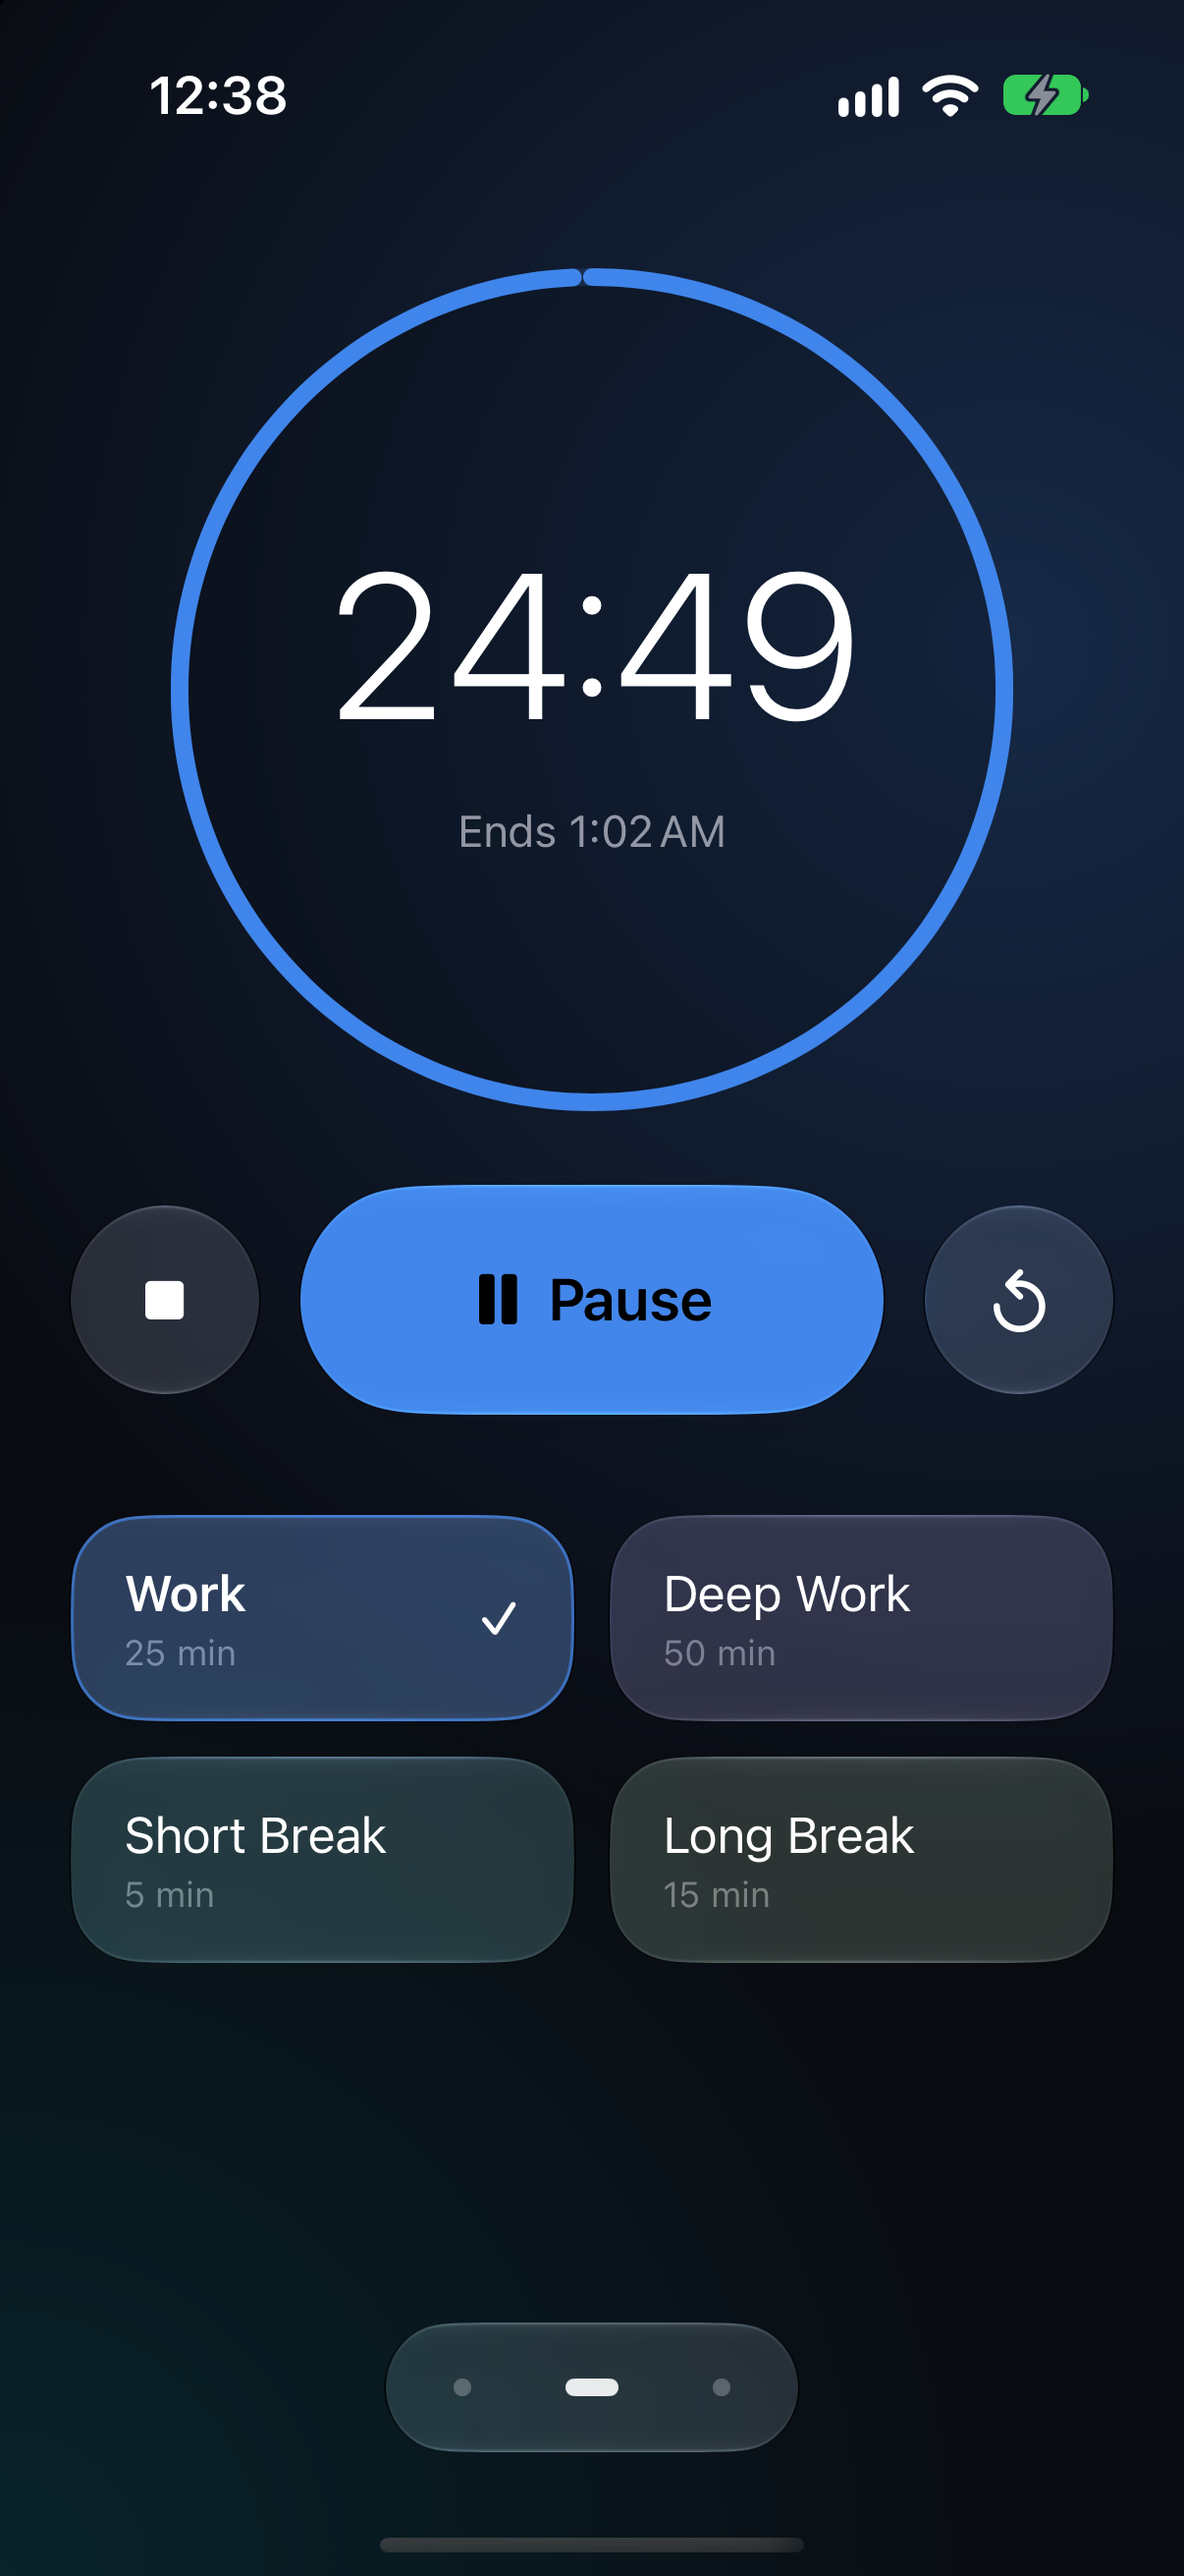
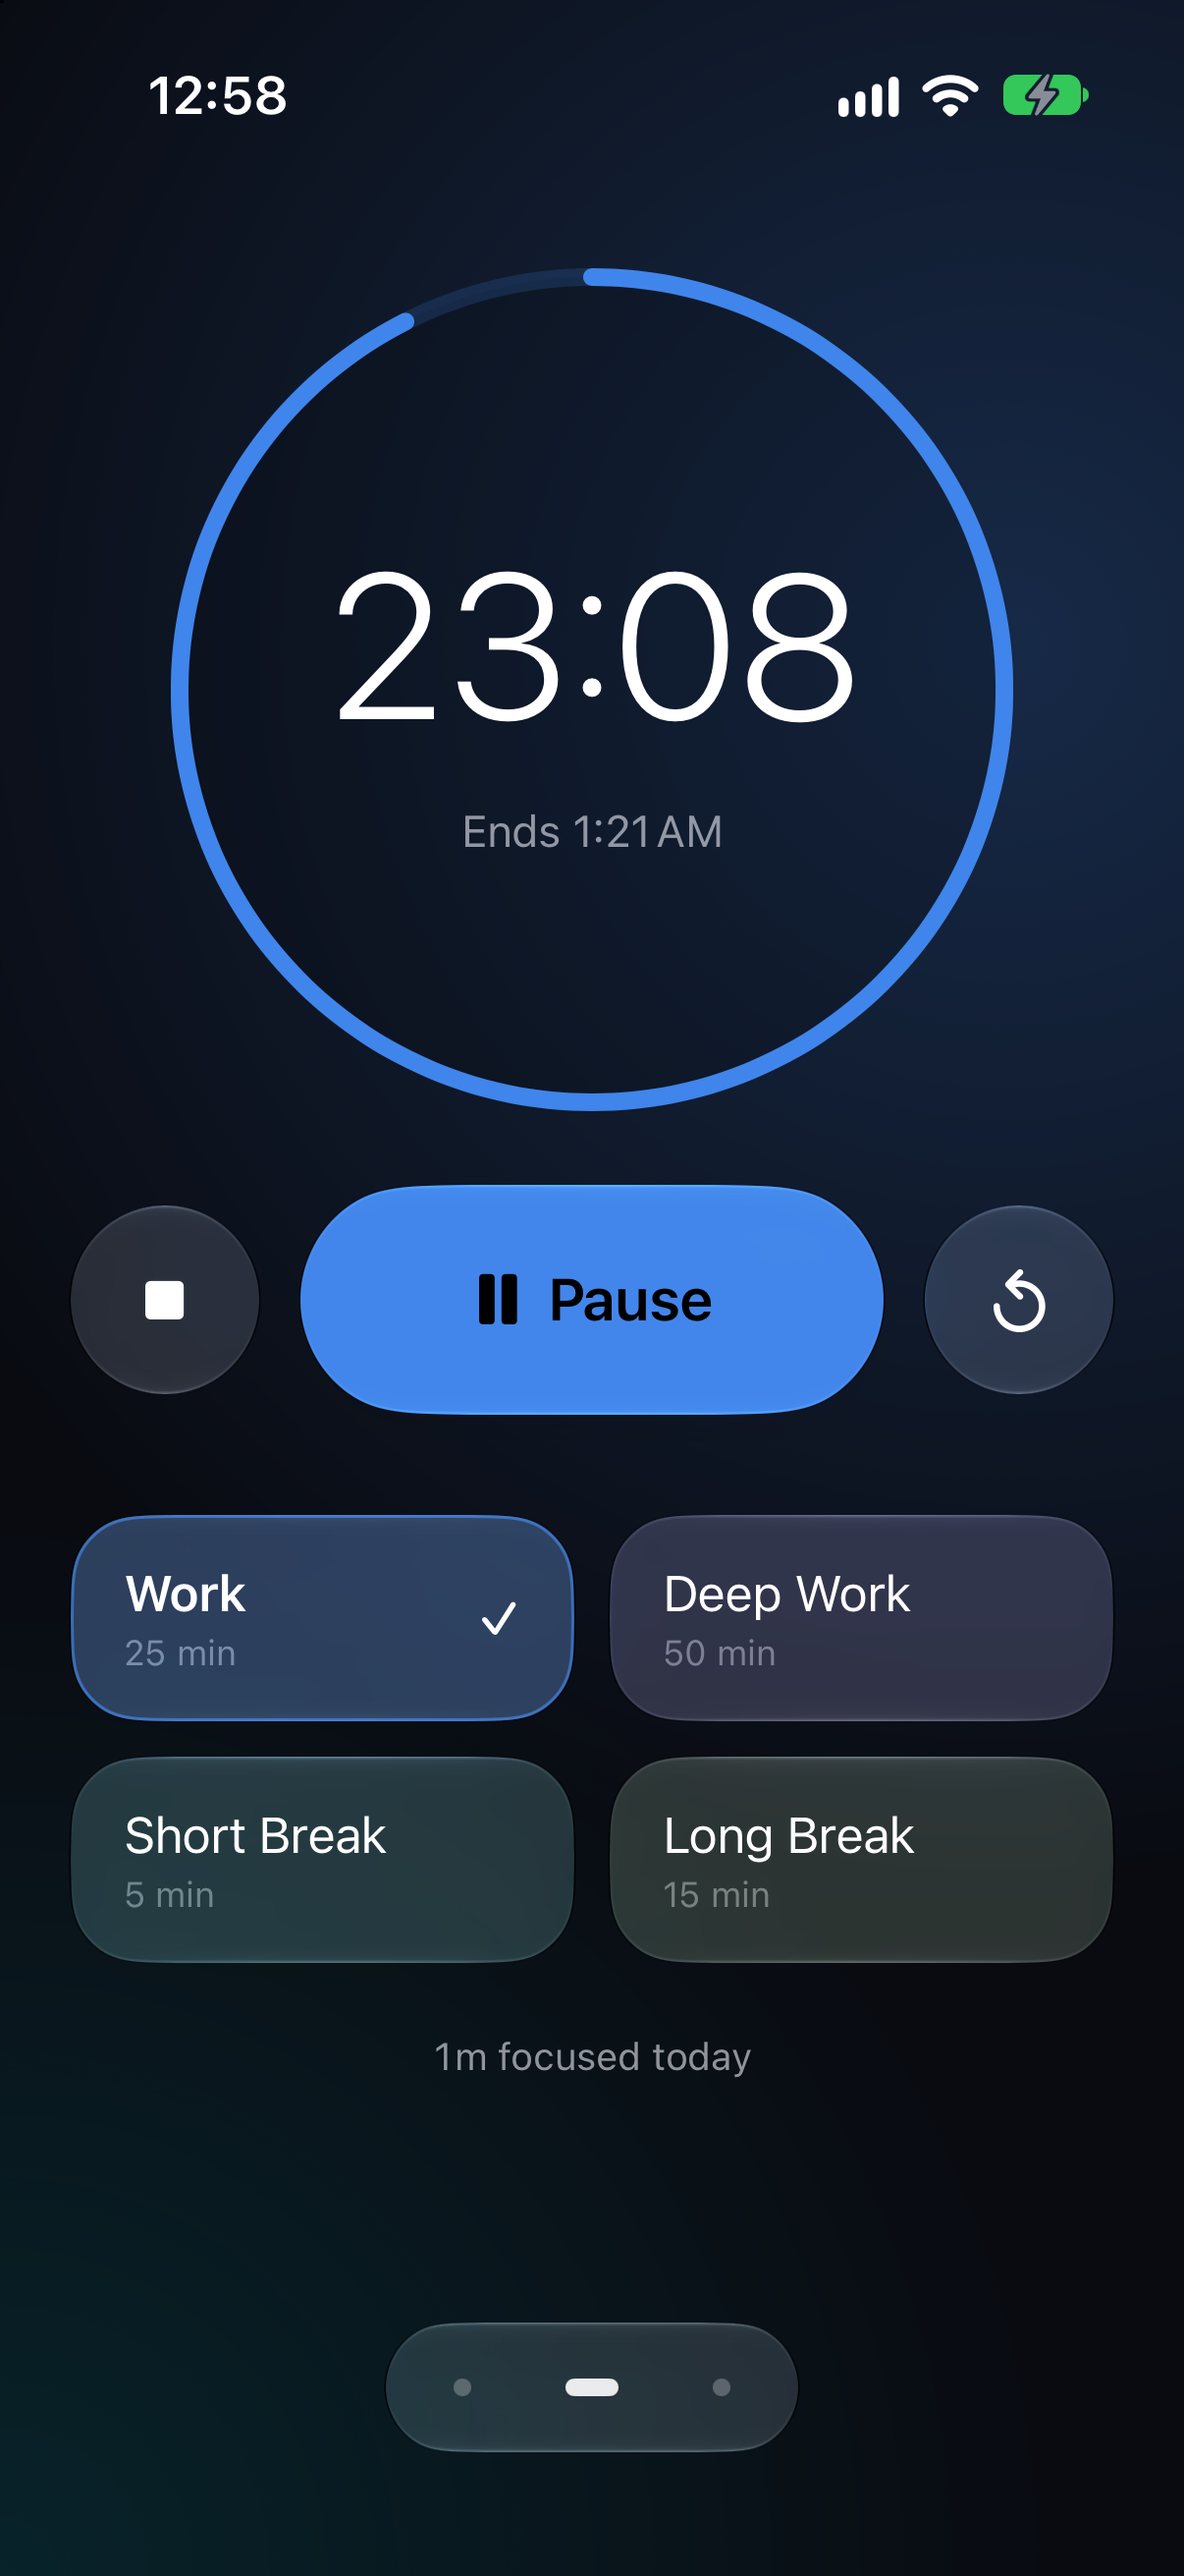
Animate countdown digits, set display totals in New York and match Watch digits

diff --git a/App/ActivityScreen.swift b/App/ActivityScreen.swift
@@ -30,7 +30,8 @@ private struct StatisticsView: View {
     let now: Date
     @Environment(\.dynamicTypeSize) private var typeSize
     @Environment(\.colorSchemeContrast) private var contrast
-    @ScaledMetric(relativeTo: .largeTitle) private var totalSize = 38.0
+    @Environment(\.accessibilityReduceMotion) private var reduceMotion
+    @ScaledMetric(relativeTo: .largeTitle) private var totalSize = 40.0
     @State private var period: ReportPeriod = .week
     @State private var anchor = Date()
     @State private var selectedDate: Date?
@@ -108,7 +109,8 @@ private struct StatisticsView: View {
                                 .font(.subheadline).frame(minHeight: 44).contentShape(Rectangle())
                         }
                     }
-                    Text(activityDuration(shown.total)).font(.system(size: totalSize, weight: .medium)).monospacedDigit().minimumScaleFactor(0.6).lineLimit(1)
+                    Text(activityDuration(shown.total)).font(.system(size: totalSize, weight: .medium, design: .serif)).monospacedDigit().minimumScaleFactor(0.6).lineLimit(1)
+                        .contentTransition(.numericText()).animation(reduceMotion ? nil : .snappy, value: shown.total)
                     if selectedBucket == nil {
                         Text(comparisonLabel).font(.subheadline).foregroundStyle(.secondary)
                     } else {
@@ -226,7 +228,8 @@ private struct StatisticsView: View {
     }
     private func duration(for preset: Preset) -> Double { shown.sessions.filter { $0.preset.kind == preset.kind }.reduce(0) { $0 + $1.duration(in: shownInterval) } }
     private func metric(_ title: String, value: String) -> some View {
-        VStack(alignment: .leading, spacing: 7) { Text(title).font(.subheadline).foregroundStyle(.secondary).lineLimit(1); Text(value).font(.title3.weight(.semibold)).monospacedDigit().lineLimit(1).minimumScaleFactor(0.8) }
+        VStack(alignment: .leading, spacing: 7) { Text(title).font(.subheadline).foregroundStyle(.secondary).lineLimit(1); Text(value).font(.title3.weight(.semibold)).monospacedDigit().lineLimit(1).minimumScaleFactor(0.8)
+                .contentTransition(.numericText()).animation(reduceMotion ? nil : .snappy, value: value) }
             .frame(maxWidth: .infinity, alignment: .leading).padding(14).modifier(ContentSurface()).accessibilityElement(children: .combine)
     }
     private func move(_ offset: Int) { anchor = calendar.date(byAdding: period.component, value: offset, to: anchor)!; selectedDate = nil }
@@ -305,7 +308,7 @@ private struct SessionDetail: View {
             VStack(alignment: .leading, spacing: 20) {
                 VStack(alignment: .leading, spacing: 8) {
                     Text(record.preset.name).font(.title2.weight(.medium))
-                    Text(activityDuration(record.elapsed)).font(.system(size: detailSize, weight: .medium)).monospacedDigit()
+                    Text(activityDuration(record.elapsed)).font(.system(size: detailSize, weight: .medium, design: .serif)).monospacedDigit()
                     Text(record.outcome.label).font(.subheadline).foregroundStyle(.secondary)
                 }.frame(maxWidth: .infinity, alignment: .leading).activityCard()
                 VStack(spacing: 18) {

diff --git a/WatchApp/SimpleTimerWatchApp.swift b/WatchApp/SimpleTimerWatchApp.swift
@@ -12,6 +12,8 @@ import SwiftUI
 }
 struct WatchTimerScreen: View {
     @EnvironmentObject private var store: WatchStore
+    @Environment(\.legibilityWeight) private var legibility
+    @Environment(\.accessibilityReduceMotion) private var reduceMotion
     var body: some View {
         NavigationStack {
             ScrollView {
@@ -23,7 +25,9 @@ struct WatchTimerScreen: View {
                         Text(session.preset.name).font(.headline).foregroundStyle(.secondary)
                         TimelineView(.periodic(from: .now, by: 1)) { context in
                             Text(TimerState.clock(session.remaining(at: context.date)))
-                                .font(.system(.largeTitle, design: .rounded).monospacedDigit()).minimumScaleFactor(0.6).lineLimit(1)
+                                // Light SF Pro digits match the iPhone timer and Live Activity.
+                                .font(.system(.largeTitle).weight(legibility == .bold ? .medium : .light).monospacedDigit()).minimumScaleFactor(0.6).lineLimit(1)
+                                .contentTransition(.numericText(countsDown: true)).animation(reduceMotion ? nil : .snappy, value: TimerState.clock(session.remaining(at: context.date)))
                                 .accessibilityLabel("Time remaining")
                         }
                         if session.phase == .paused { Text("Paused").font(.caption) }

diff --git a/App/TimerScreen.swift b/App/TimerScreen.swift
@@ -23,6 +23,7 @@ struct TimerScreen: View {
                         VStack(spacing: 12) {
                             Text(TimerState.clock(remaining))
                                 .font(.system(size: clockSize, weight: legibility == .bold || contrast == .increased ? .medium : .light)).monospacedDigit().minimumScaleFactor(0.45).lineLimit(1)
+                                .contentTransition(.numericText(countsDown: true)).animation(reduceMotion ? nil : .snappy, value: TimerState.clock(remaining))
                                 .accessibilityLabel("Time remaining").accessibilityValue(TimerState.clock(remaining))
                             if let status { Text(status).font(.subheadline).foregroundStyle(.secondary) }
                         }.padding(22)

diff --git a/LiveActivity/SimpleTimerActivity.swift b/LiveActivity/SimpleTimerActivity.swift
@@ -95,7 +95,7 @@ struct SimpleTimerLiveActivity: Widget {
     @ViewBuilder private func countdown(_ context: ActivityViewContext<TimerAttributes>) -> some View {
         if let end = context.state.end, context.state.phase == "running" {
             Text(timerInterval: end.addingTimeInterval(-context.state.duration)...end, countsDown: true, showsHours: true)
-        } else { Text(TimerState.clock(context.state.remaining)) }
+        } else { Text(TimerState.clock(context.state.remaining)).contentTransition(.numericText(countsDown: true)) }
     }
 }
 private struct ActivityGlassControl: ViewModifier {

diff --git a/docs/VALIDATION.md b/docs/VALIDATION.md
@@ -29,6 +29,7 @@ Checked with Xcode 27, an iOS 27 iPhone simulator and a paired watchOS 27 simula
 - The Activity page shows Sessions, Completed and Streak tiles, one Sessions card for the selected range, and All history in the toolbar. With Keep screen on enabled, a debugger read of the running simulator app showed the idle timer disabled only while a session runs: on while running, off while paused, and off while running with the setting off.
 
 - On paired iPhone 17 and Apple Watch Ultra 4 simulators, starting from Watch and then picking another session asked before switching; Switch saved the running session as switched on the iPhone. Watch session lengths read "1 hr 30 min" like iPhone.
+- Type stays on Apple system fonts. Countdown digits on iPhone and Watch roll between values with a numeric text transition, which was seen on paired simulators; the Reduce Motion fallback was not checked. The Activity total uses the New York serif, checked in dark mode. The session detail duration uses the same font call but was not opened. Watch countdown digits now use light SF Pro, matching iPhone and the Live Activity.
 - Rapid Watch changes (Work → Deep Work → Short Break) converged to the same confirmed session on both simulators. Changes made on iPhone also updated the already-open Watch Sessions screen.
 - Watch Start and Pause produced matching saved session IDs and phases on both simulators. The confirmed paused session survived companion relaunch.
 - A demo iPhone shutdown/reconnect left the confirmed paused timer unchanged; an offline Resume was not replayed.
